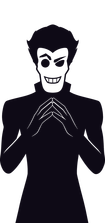
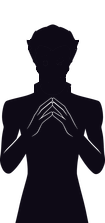
Launcher: solid Mastermind silhouette, smoother lighthouse beam
- ghost.png: the face is filled in with the body's ink, so the Mastermind is a plain silhouette in the
  tower window. (The head's small gaps were sealed with a 3 px closing, then the see-through pixels it
  enclosed above the collar were filled; the outer contour is unchanged.)
- The beam no longer switches between bright and dim: it fades between them as it turns, and fades
  out as it comes end-on at the front and at the back, instead of shrinking to a stub and vanishing.

diff --git a/launcher/MansionScene.cs b/launcher/MansionScene.cs
@@ -582,17 +582,27 @@ sealed class MansionScene : Control
     // The lighthouse's turning light: a cone from the lamp, its length cos(angle) of the longest (mirrored to the left
     // when it points away from the house), dimmer on the far side where the tower hides part of it; and a flare on the
     // lamp that grows when the light faces the viewer. Both are behind the house and the front fog.
+    static double SmoothStep(double from, double to, double x)
+    {
+        double k = Math.Clamp((x - from) / (to - from), 0, 1);
+        return k * k * (3 - 2 * k);
+    }
+
     void DrawLighthouse(DrawingContext g, double t)
     {
         double angle = t / BeamTurn * Math.Tau, c = Math.Cos(angle), sn = Math.Sin(angle);
         var lamp = new Point(Lamp.X * backK, backTop + Lamp.Y * backK);
-        if (beam != null && Math.Abs(c) * beam.Size.Width >= 6)
+        // The beam fades between bright (swinging towards us, sn > 0) and dim (away) over the side-on stretch, and fades
+        // out as it comes end-on, at the front and at the back, where it would otherwise shrink to a stub and vanish.
+        double side = SmoothStep(-0.45, 0.45, sn), reach = SmoothStep(0.03, 0.35, Math.Abs(c));
+        double beamOpacity = (0.4 + 0.35 * side) * reach;
+        if (beam != null && beamOpacity > 0.004)
         {
-            double len = Math.Abs(c) * beam.Size.Width, bh = beam.Size.Height;
+            double len = Math.Max(1, Math.Abs(c) * beam.Size.Width), bh = beam.Size.Height;
             var src = new Rect(0, 0, beam.PixelSize.Width, beam.PixelSize.Height);
             var dest = new Rect(lamp.X, lamp.Y - bh / 2, len, bh);
             var mirror = c < 0 ? new Matrix(-1, 0, 0, 1, 2 * lamp.X, 0) : Matrix.Identity;
-            using (g.PushOpacity(sn >= 0 ? 0.75 : 0.45))
+            using (g.PushOpacity(beamOpacity))
             using (g.PushTransform(mirror))
                 g.DrawImage(beam, src, dest);
         }
